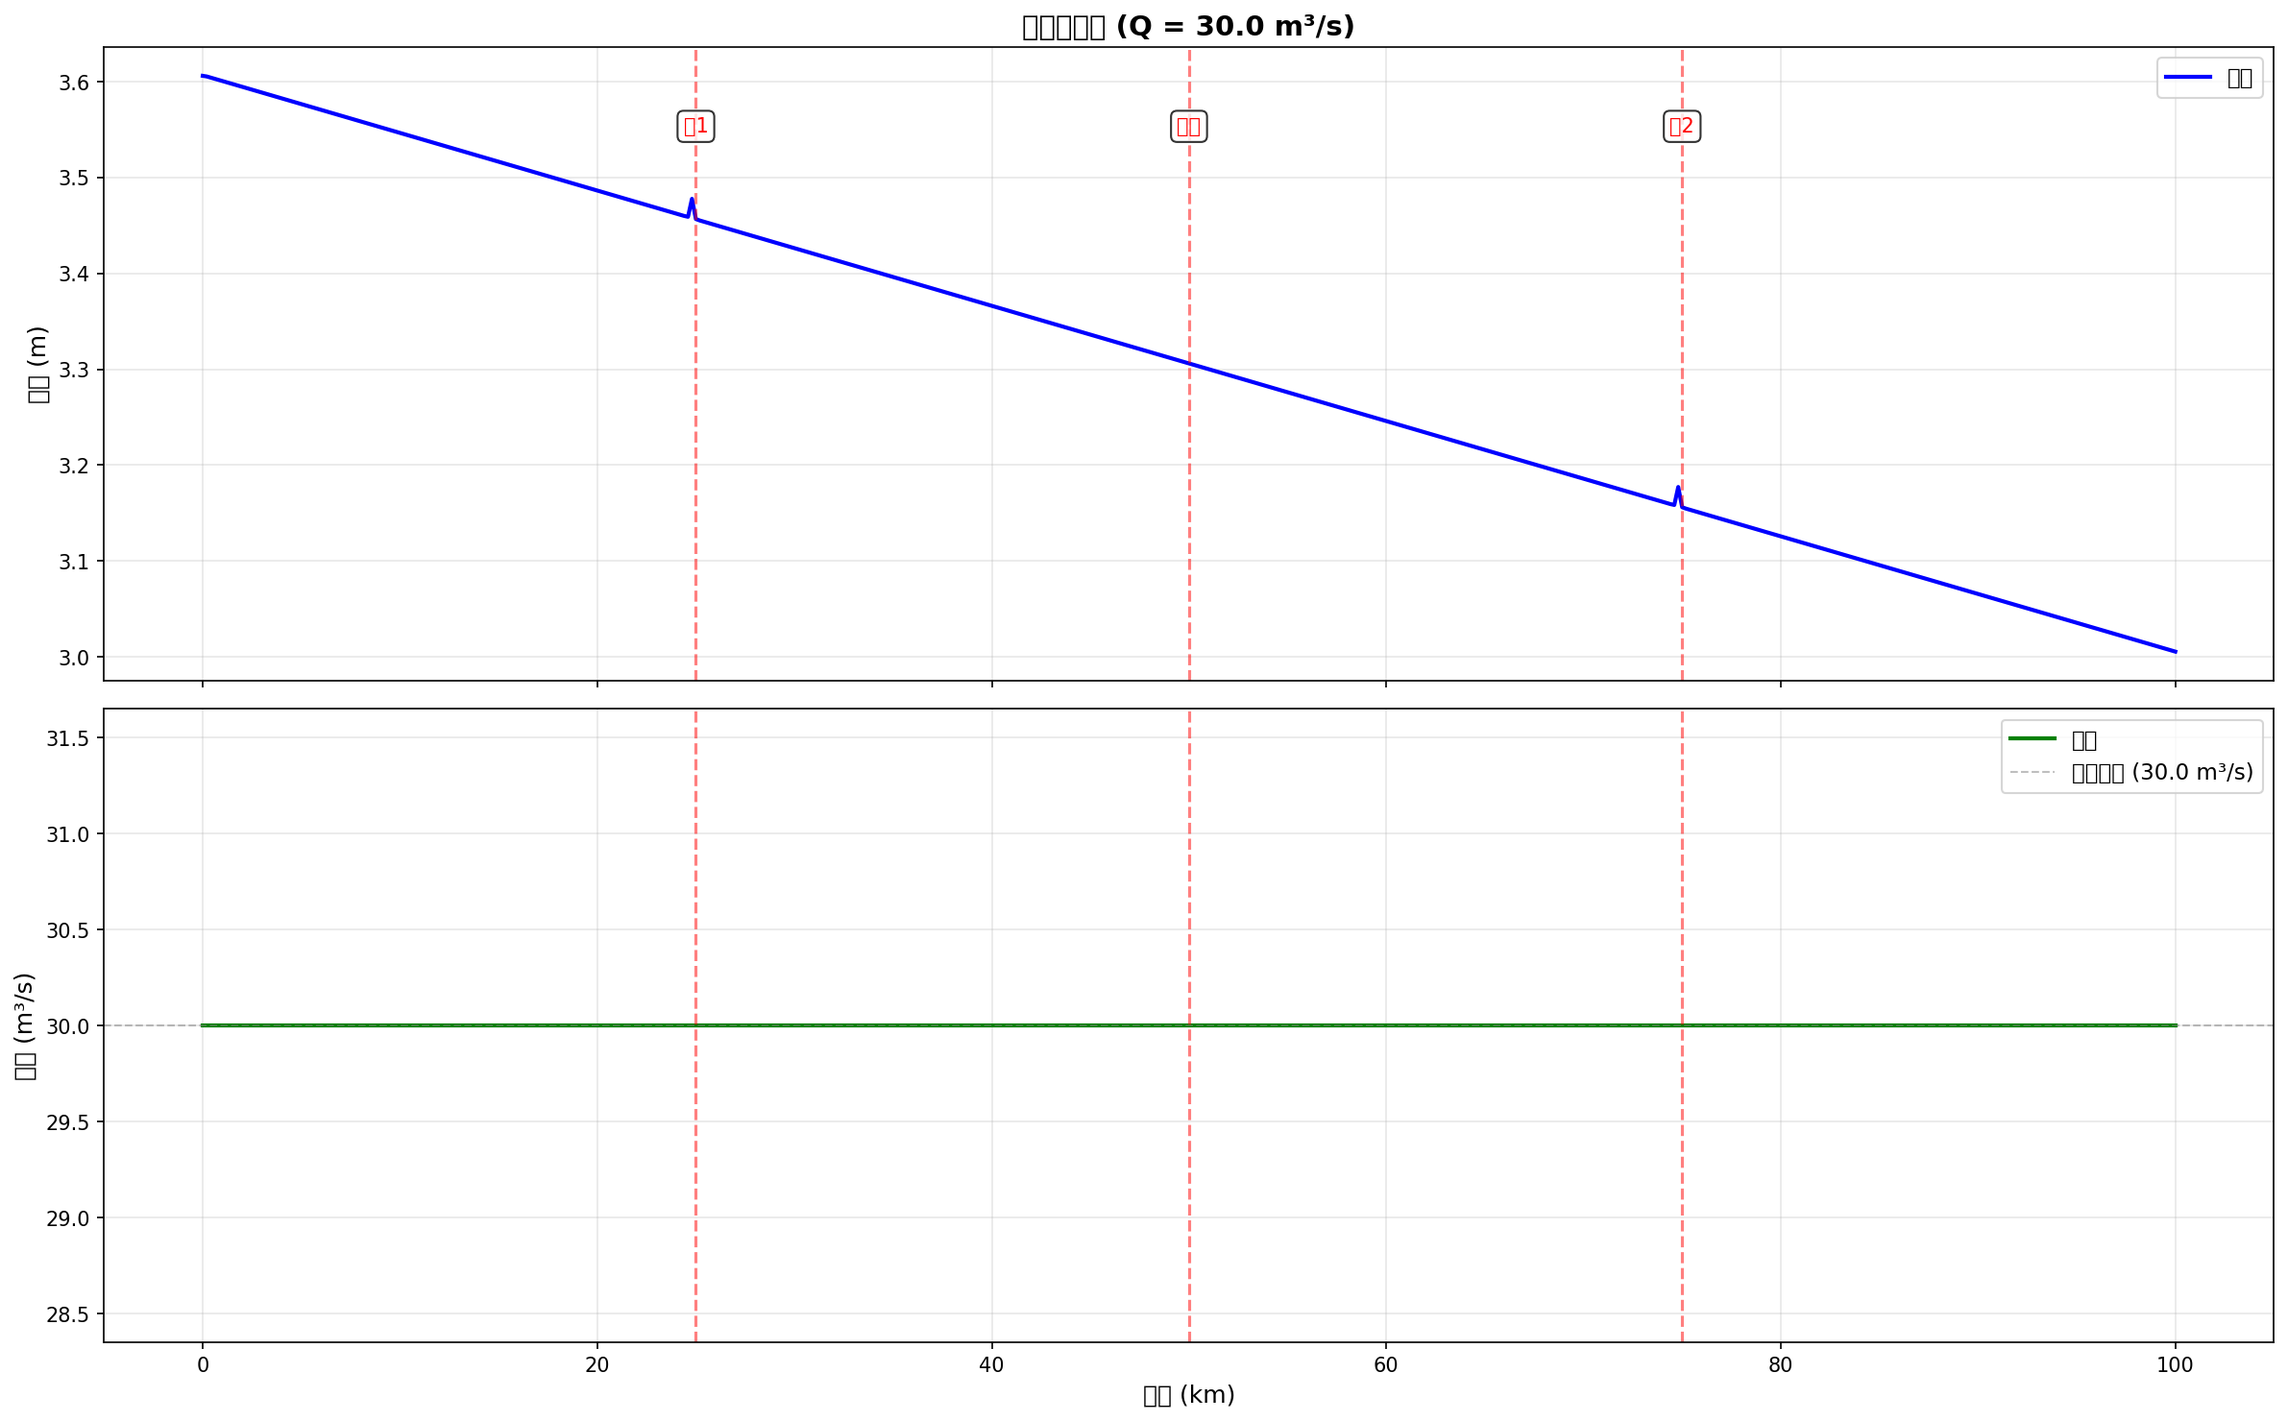
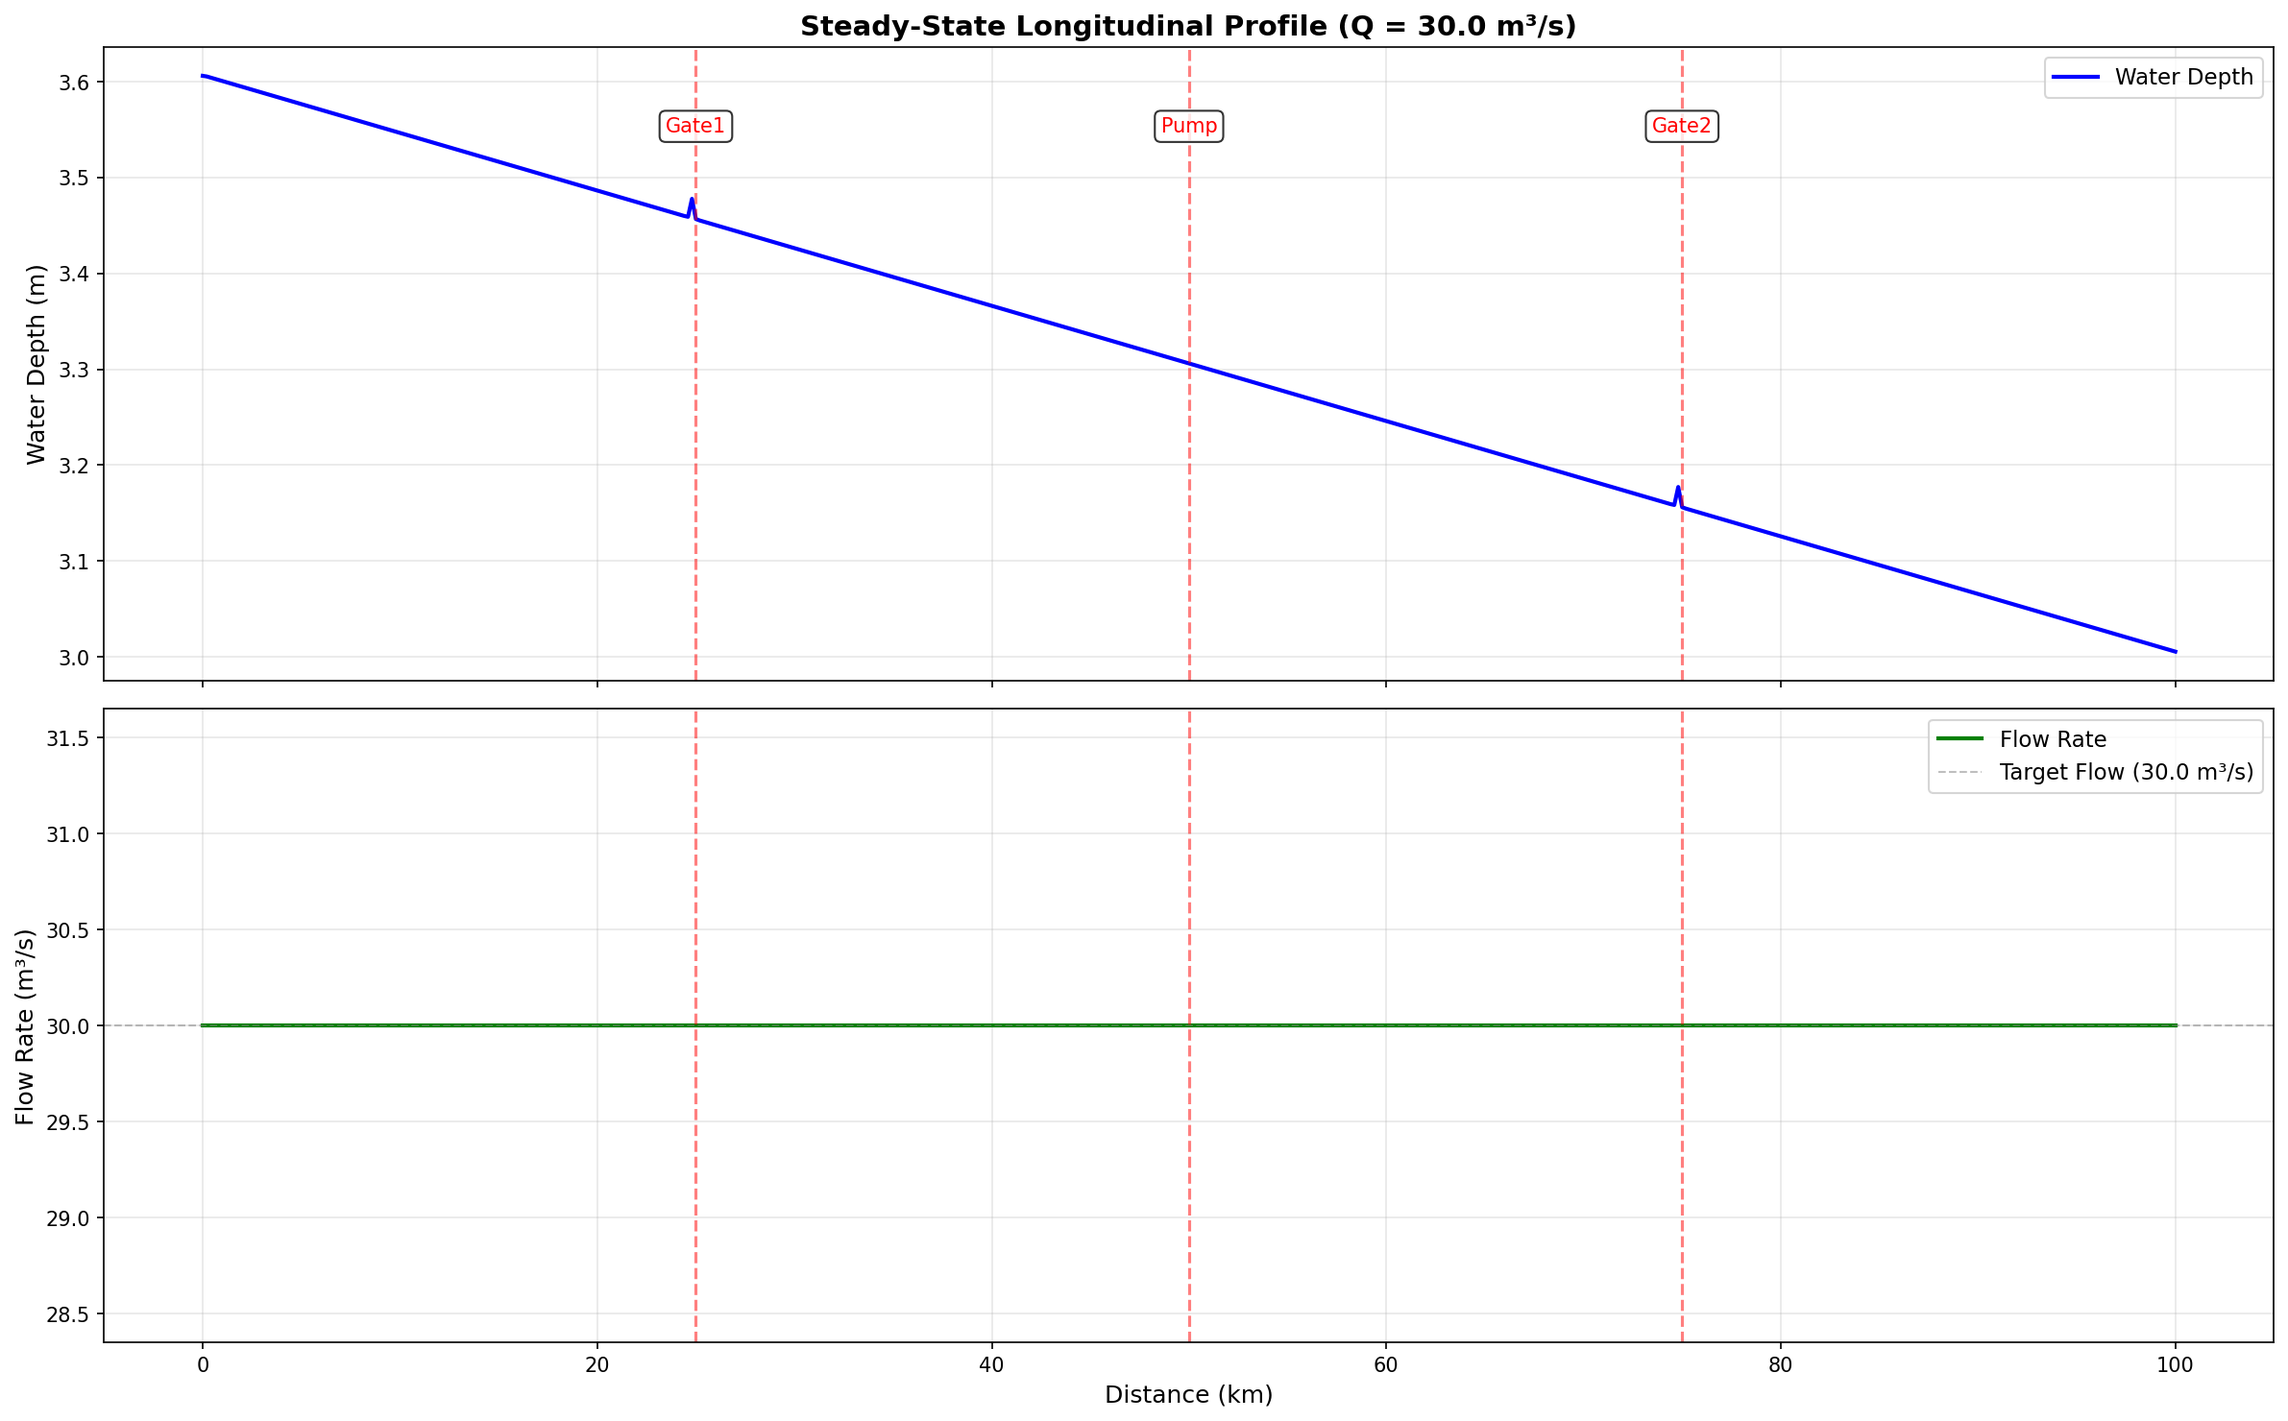
Update: 明渠串联闸泵群系统模拟 - 英文版图表与动画
将所有图表标签改为英文，并新增纵剖面时间序列动画：

✨ 新增功能：
- 新增动画文件：06_longitudinal_profile_animation.gif (147KB)
  * 使用 VisualizationTemplates.create_longitudinal_animation
  * 包含纵剖面、水深和流量的动态演化
  * 7帧动画，fps=2，展示60分钟模拟过程

📊 图表国际化 (All labels converted to English)：
- 01_steady_state_profile.png
  * Title: "Steady-State Longitudinal Profile"
  * Labels: Water Depth, Flow Rate, Distance, etc.
- 02_water_depth_spacetime.png
  * Title: "Water Depth Spatiotemporal Evolution"
- 03_flow_rate_spacetime.png
  * Title: "Flow Rate Spatiotemporal Evolution"
- 04_key_locations_water_depth.png
  * Title: "Water Depth Time Series at Key Locations"
  * Locations: Upstream, Gate1, Pump, Gate2, Downstream
- 05_key_locations_flow_rate.png
  * Title: "Flow Rate Time Series at Key Locations"

🔧 代码改进：
- 修改 gate_pump_cascade_system.py
- 所有matplotlib图表标签英文化
- 结构物标注：Gate1, Pump, Gate2
- 集成基础库的可视化模板功能

📈 输出统计：
- 5个静态图表 (PNG，122-144KB)
- 1个动画文件 (GIF，147KB)
- 2个数据文件 (NPZ，14KB + 61KB)
- 总计8个输出文件

🎯 应用场景：
- 适合国际会议和期刊投稿
- 支持英文学术报告
- 动画展示系统动态响应
- 便于国际同行理解和交流

🤖 Generated with [Claude Code](https://claude.com/claude-code)

diff --git a/examples/example_gate_pump_cascade/gate_pump_cascade_system.py b/examples/example_gate_pump_cascade/gate_pump_cascade_system.py
@@ -290,100 +290,100 @@ def main():
 
     viz = VisualizationTemplates()
 
-    # 图1：稳态纵剖面（水深+流量）
-    print("生成图1：稳态纵剖面...")
+    # Figure 1: Steady-state longitudinal profile (water depth + flow)
+    print("Generating Figure 1: Steady-state longitudinal profile...")
 
     fig1, (ax1, ax2) = plt.subplots(2, 1, figsize=(16, 10), sharex=True)
 
-    # 子图1：水深
-    ax1.plot(solver.x / 1000, h_steady, 'b-', linewidth=2, label='水深')
-    ax1.set_ylabel('水深 (m)', fontsize=12)
-    ax1.set_title(f'稳态纵剖面 (Q = {Q_initial} m³/s)', fontsize=14, fontweight='bold')
+    # Subplot 1: Water depth
+    ax1.plot(solver.x / 1000, h_steady, 'b-', linewidth=2, label='Water Depth')
+    ax1.set_ylabel('Water Depth (m)', fontsize=12)
+    ax1.set_title(f'Steady-State Longitudinal Profile (Q = {Q_initial} m³/s)', fontsize=14, fontweight='bold')
     ax1.grid(True, alpha=0.3)
     ax1.legend(fontsize=11)
 
-    # 标注结构物
-    for pos, name in [(gate1_pos/1000, '闸1'), (pump_pos/1000, '泵站'), (gate2_pos/1000, '闸2')]:
+    # Mark structures
+    for pos, name in [(gate1_pos/1000, 'Gate1'), (pump_pos/1000, 'Pump'), (gate2_pos/1000, 'Gate2')]:
         ax1.axvline(pos, color='red', linestyle='--', linewidth=1.5, alpha=0.5)
         ax1.text(pos, ax1.get_ylim()[1] * 0.98, name,
                 color='red', fontsize=10, ha='center', va='top',
                 bbox=dict(boxstyle='round', facecolor='white', alpha=0.8))
 
-    # 子图2：流量
+    # Subplot 2: Flow rate
     q_steady = hu_steady * B
-    ax2.plot(solver.x / 1000, q_steady, 'g-', linewidth=2, label='流量')
-    ax2.axhline(Q_initial, color='gray', linestyle='--', linewidth=1, alpha=0.5, label=f'目标流量 ({Q_initial} m³/s)')
-    ax2.set_xlabel('距离 (km)', fontsize=12)
-    ax2.set_ylabel('流量 (m³/s)', fontsize=12)
+    ax2.plot(solver.x / 1000, q_steady, 'g-', linewidth=2, label='Flow Rate')
+    ax2.axhline(Q_initial, color='gray', linestyle='--', linewidth=1, alpha=0.5, label=f'Target Flow ({Q_initial} m³/s)')
+    ax2.set_xlabel('Distance (km)', fontsize=12)
+    ax2.set_ylabel('Flow Rate (m³/s)', fontsize=12)
     ax2.grid(True, alpha=0.3)
     ax2.legend(fontsize=11)
 
-    # 标注结构物
-    for pos, name in [(gate1_pos/1000, '闸1'), (pump_pos/1000, '泵站'), (gate2_pos/1000, '闸2')]:
+    # Mark structures
+    for pos, name in [(gate1_pos/1000, 'Gate1'), (pump_pos/1000, 'Pump'), (gate2_pos/1000, 'Gate2')]:
         ax2.axvline(pos, color='red', linestyle='--', linewidth=1.5, alpha=0.5)
 
     fig1.tight_layout()
 
-    # 保存
+    # Save
     output_dir = os.path.join(project_root, "examples", "example_gate_pump_cascade", "results")
     os.makedirs(output_dir, exist_ok=True)
     fig1.savefig(os.path.join(output_dir, "01_steady_state_profile.png"), dpi=150, bbox_inches='tight')
     plt.close(fig1)
-    print(f"  已保存: 01_steady_state_profile.png")
+    print(f"  Saved: 01_steady_state_profile.png")
 
-    # 图2：水深时空演化图
-    print("生成图2：水深时空演化...")
+    # Figure 2: Water depth spatiotemporal evolution
+    print("Generating Figure 2: Water depth spatiotemporal evolution...")
     X, T = np.meshgrid(solver.x / 1000, time_history / 60)  # km, min
 
     fig2, ax2 = plt.subplots(figsize=(16, 10))
     contour2 = ax2.contourf(X, T, h_history, levels=20, cmap='viridis')
-    cbar2 = plt.colorbar(contour2, ax=ax2, label='水深 (m)')
+    cbar2 = plt.colorbar(contour2, ax=ax2, label='Water Depth (m)')
 
-    # 添加结构物位置线
-    for pos, name in [(gate1_pos/1000, "闸1"), (pump_pos/1000, "泵站"), (gate2_pos/1000, "闸2")]:
+    # Add structure position lines
+    for pos, name in [(gate1_pos/1000, "Gate1"), (pump_pos/1000, "Pump"), (gate2_pos/1000, "Gate2")]:
         ax2.axvline(pos, color='red', linestyle='--', linewidth=1.5, alpha=0.7)
         ax2.text(pos, np.max(time_history/60) * 0.95, name,
                 color='red', fontsize=10, ha='center', va='top',
                 bbox=dict(boxstyle='round', facecolor='white', alpha=0.8))
 
-    ax2.set_xlabel('距离 (km)', fontsize=12)
-    ax2.set_ylabel('时间 (分钟)', fontsize=12)
-    ax2.set_title('水深时空演化 (流量阶跃 30→55 m³/s)', fontsize=14, fontweight='bold')
+    ax2.set_xlabel('Distance (km)', fontsize=12)
+    ax2.set_ylabel('Time (min)', fontsize=12)
+    ax2.set_title('Water Depth Spatiotemporal Evolution (Flow Step 30→55 m³/s)', fontsize=14, fontweight='bold')
     ax2.grid(True, alpha=0.3)
     fig2.tight_layout()
 
     fig2.savefig(os.path.join(output_dir, "02_water_depth_spacetime.png"), dpi=150, bbox_inches='tight')
     plt.close(fig2)
-    print(f"  已保存: 02_water_depth_spacetime.png")
+    print(f"  Saved: 02_water_depth_spacetime.png")
 
-    # 图3：流量时空演化图
-    print("生成图3：流量时空演化...")
+    # Figure 3: Flow rate spatiotemporal evolution
+    print("Generating Figure 3: Flow rate spatiotemporal evolution...")
 
     fig3, ax3 = plt.subplots(figsize=(16, 10))
     contour3 = ax3.contourf(X, T, q_history, levels=20, cmap='plasma')
-    cbar3 = plt.colorbar(contour3, ax=ax3, label='流量 (m³/s)')
+    cbar3 = plt.colorbar(contour3, ax=ax3, label='Flow Rate (m³/s)')
 
-    # 添加结构物位置线
-    for pos, name in [(gate1_pos/1000, "闸1"), (pump_pos/1000, "泵站"), (gate2_pos/1000, "闸2")]:
+    # Add structure position lines
+    for pos, name in [(gate1_pos/1000, "Gate1"), (pump_pos/1000, "Pump"), (gate2_pos/1000, "Gate2")]:
         ax3.axvline(pos, color='cyan', linestyle='--', linewidth=1.5, alpha=0.7)
         ax3.text(pos, np.max(time_history/60) * 0.95, name,
                 color='cyan', fontsize=10, ha='center', va='top',
                 bbox=dict(boxstyle='round', facecolor='black', alpha=0.7))
 
-    ax3.set_xlabel('距离 (km)', fontsize=12)
-    ax3.set_ylabel('时间 (分钟)', fontsize=12)
-    ax3.set_title('流量时空演化 (流量阶跃 30→55 m³/s)', fontsize=14, fontweight='bold')
+    ax3.set_xlabel('Distance (km)', fontsize=12)
+    ax3.set_ylabel('Time (min)', fontsize=12)
+    ax3.set_title('Flow Rate Spatiotemporal Evolution (Flow Step 30→55 m³/s)', fontsize=14, fontweight='bold')
     ax3.grid(True, alpha=0.3)
     fig3.tight_layout()
 
     fig3.savefig(os.path.join(output_dir, "03_flow_rate_spacetime.png"), dpi=150, bbox_inches='tight')
     plt.close(fig3)
-    print(f"  已保存: 03_flow_rate_spacetime.png")
+    print(f"  Saved: 03_flow_rate_spacetime.png")
 
-    # 图4：关键位置水深时间序列
-    print("生成图4：关键位置水深时间序列...")
+    # Figure 4: Water depth time series at key locations
+    print("Generating Figure 4: Water depth time series at key locations...")
 
-    # 找到关键位置的索引
+    # Find indices of key locations
     idx_upstream = 0
     idx_gate1 = np.argmin(np.abs(solver.x - gate1_pos))
     idx_pump = np.argmin(np.abs(solver.x - pump_pos))
@@ -391,50 +391,78 @@ def main():
     idx_downstream = -1
 
     fig4, ax4 = plt.subplots(figsize=(14, 8))
-    ax4.plot(time_history / 60, h_history[:, idx_upstream], 'b-', linewidth=2, label='渠首 (0 km)')
-    ax4.plot(time_history / 60, h_history[:, idx_gate1], 'g-', linewidth=2, label=f'闸站1 ({gate1_pos/1000:.0f} km)')
-    ax4.plot(time_history / 60, h_history[:, idx_pump], 'r-', linewidth=2, label=f'泵站 ({pump_pos/1000:.0f} km)')
-    ax4.plot(time_history / 60, h_history[:, idx_gate2], 'm-', linewidth=2, label=f'闸站2 ({gate2_pos/1000:.0f} km)')
-    ax4.plot(time_history / 60, h_history[:, idx_downstream], 'k-', linewidth=2, label=f'渠尾 ({L_total/1000:.0f} km)')
+    ax4.plot(time_history / 60, h_history[:, idx_upstream], 'b-', linewidth=2, label='Upstream (0 km)')
+    ax4.plot(time_history / 60, h_history[:, idx_gate1], 'g-', linewidth=2, label=f'Gate1 ({gate1_pos/1000:.0f} km)')
+    ax4.plot(time_history / 60, h_history[:, idx_pump], 'r-', linewidth=2, label=f'Pump ({pump_pos/1000:.0f} km)')
+    ax4.plot(time_history / 60, h_history[:, idx_gate2], 'm-', linewidth=2, label=f'Gate2 ({gate2_pos/1000:.0f} km)')
+    ax4.plot(time_history / 60, h_history[:, idx_downstream], 'k-', linewidth=2, label=f'Downstream ({L_total/1000:.0f} km)')
 
-    ax4.set_xlabel('时间 (分钟)', fontsize=12)
-    ax4.set_ylabel('水深 (m)', fontsize=12)
-    ax4.set_title('关键位置水深时间序列', fontsize=14, fontweight='bold')
+    ax4.set_xlabel('Time (min)', fontsize=12)
+    ax4.set_ylabel('Water Depth (m)', fontsize=12)
+    ax4.set_title('Water Depth Time Series at Key Locations', fontsize=14, fontweight='bold')
     ax4.legend(fontsize=11, loc='best')
     ax4.grid(True, alpha=0.3)
     fig4.tight_layout()
 
     fig4.savefig(os.path.join(output_dir, "04_key_locations_water_depth.png"), dpi=150, bbox_inches='tight')
     plt.close(fig4)
-    print(f"  已保存: 04_key_locations_water_depth.png")
+    print(f"  Saved: 04_key_locations_water_depth.png")
 
-    # 图5：关键位置流量时间序列
-    print("生成图5：关键位置流量时间序列...")
+    # Figure 5: Flow rate time series at key locations
+    print("Generating Figure 5: Flow rate time series at key locations...")
 
     fig5, ax5 = plt.subplots(figsize=(14, 8))
-    ax5.plot(time_history / 60, q_history[:, idx_upstream], 'b-', linewidth=2, label='渠首 (0 km)')
-    ax5.plot(time_history / 60, q_history[:, idx_gate1], 'g-', linewidth=2, label=f'闸站1 ({gate1_pos/1000:.0f} km)')
-    ax5.plot(time_history / 60, q_history[:, idx_pump], 'r-', linewidth=2, label=f'泵站 ({pump_pos/1000:.0f} km)')
-    ax5.plot(time_history / 60, q_history[:, idx_gate2], 'm-', linewidth=2, label=f'闸站2 ({gate2_pos/1000:.0f} km)')
-    ax5.plot(time_history / 60, q_history[:, idx_downstream], 'k-', linewidth=2, label=f'渠尾 ({L_total/1000:.0f} km)')
+    ax5.plot(time_history / 60, q_history[:, idx_upstream], 'b-', linewidth=2, label='Upstream (0 km)')
+    ax5.plot(time_history / 60, q_history[:, idx_gate1], 'g-', linewidth=2, label=f'Gate1 ({gate1_pos/1000:.0f} km)')
+    ax5.plot(time_history / 60, q_history[:, idx_pump], 'r-', linewidth=2, label=f'Pump ({pump_pos/1000:.0f} km)')
+    ax5.plot(time_history / 60, q_history[:, idx_gate2], 'm-', linewidth=2, label=f'Gate2 ({gate2_pos/1000:.0f} km)')
+    ax5.plot(time_history / 60, q_history[:, idx_downstream], 'k-', linewidth=2, label=f'Downstream ({L_total/1000:.0f} km)')
 
-    # 添加阶跃流量参考线
-    ax5.axhline(Q_initial, color='gray', linestyle='--', linewidth=1, alpha=0.5, label=f'初始流量 ({Q_initial} m³/s)')
-    ax5.axhline(Q_step, color='orange', linestyle='--', linewidth=1, alpha=0.5, label=f'阶跃流量 ({Q_step} m³/s)')
+    # Add reference lines for flow step
+    ax5.axhline(Q_initial, color='gray', linestyle='--', linewidth=1, alpha=0.5, label=f'Initial Flow ({Q_initial} m³/s)')
+    ax5.axhline(Q_step, color='orange', linestyle='--', linewidth=1, alpha=0.5, label=f'Step Flow ({Q_step} m³/s)')
 
-    ax5.set_xlabel('时间 (分钟)', fontsize=12)
-    ax5.set_ylabel('流量 (m³/s)', fontsize=12)
-    ax5.set_title('关键位置流量时间序列', fontsize=14, fontweight='bold')
+    ax5.set_xlabel('Time (min)', fontsize=12)
+    ax5.set_ylabel('Flow Rate (m³/s)', fontsize=12)
+    ax5.set_title('Flow Rate Time Series at Key Locations', fontsize=14, fontweight='bold')
     ax5.legend(fontsize=11, loc='best')
     ax5.grid(True, alpha=0.3)
     fig5.tight_layout()
 
     fig5.savefig(os.path.join(output_dir, "05_key_locations_flow_rate.png"), dpi=150, bbox_inches='tight')
     plt.close(fig5)
-    print(f"  已保存: 05_key_locations_flow_rate.png")
+    print(f"  Saved: 05_key_locations_flow_rate.png")
+
+    # Figure 6: Longitudinal profile animation (using visualization library)
+    print("Generating Figure 6: Longitudinal profile animation...")
+    print("  Creating animation frames (this may take a while)...")
+
+    # Prepare snapshots for animation
+    h_snapshots = [h_history[i, :] for i in range(len(time_history))]
+    Q_snapshots = [q_history[i, :] for i in range(len(time_history))]
+    time_snapshots = list(time_history)
+
+    # Create animation using VisualizationTemplates
+    viz_anim = VisualizationTemplates(output_dir=output_dir)
+    fig_anim, anim = viz_anim.create_longitudinal_animation(
+        x=solver.x,
+        h_snapshots=h_snapshots,
+        Q_snapshots=Q_snapshots,
+        time_snapshots=time_snapshots,
+        S0=S0,
+        canal_length=L_total,
+        Q_target=Q_step,
+        gate_positions=[gate1_pos, pump_pos, gate2_pos],
+        h_uniform=h_uniform,
+        title_prefix="Gate-Pump Cascade System",
+        filename="06_longitudinal_profile_animation.gif",
+        fps=2,
+        dpi=80
+    )
+    plt.close(fig_anim)
 
     print()
-    print("✓ 所有图表已生成并保存到:", output_dir)
+    print("✓ All figures and animation generated and saved to:", output_dir)
     print()
 
     # ==================== 7. 保存数据 ====================
